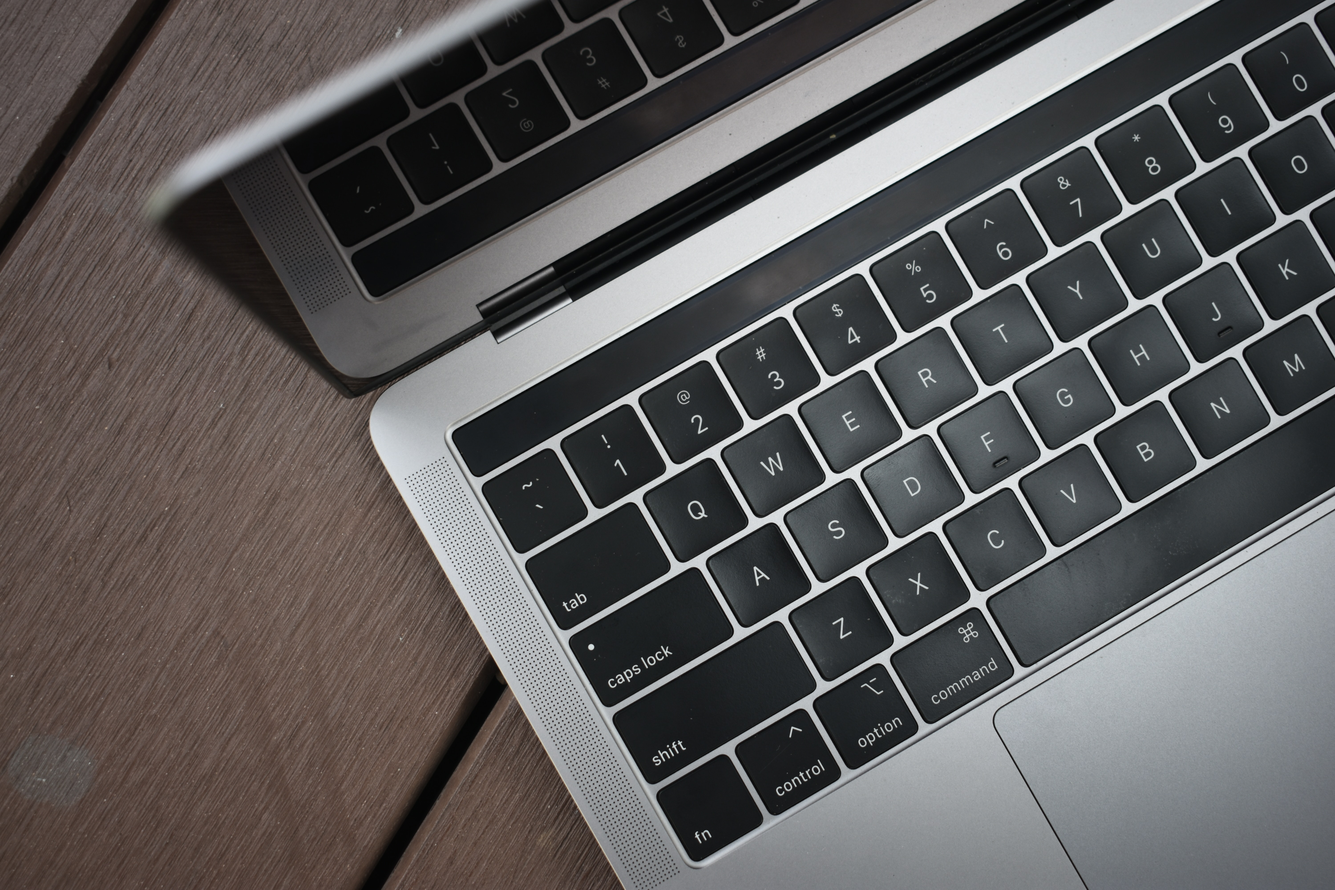
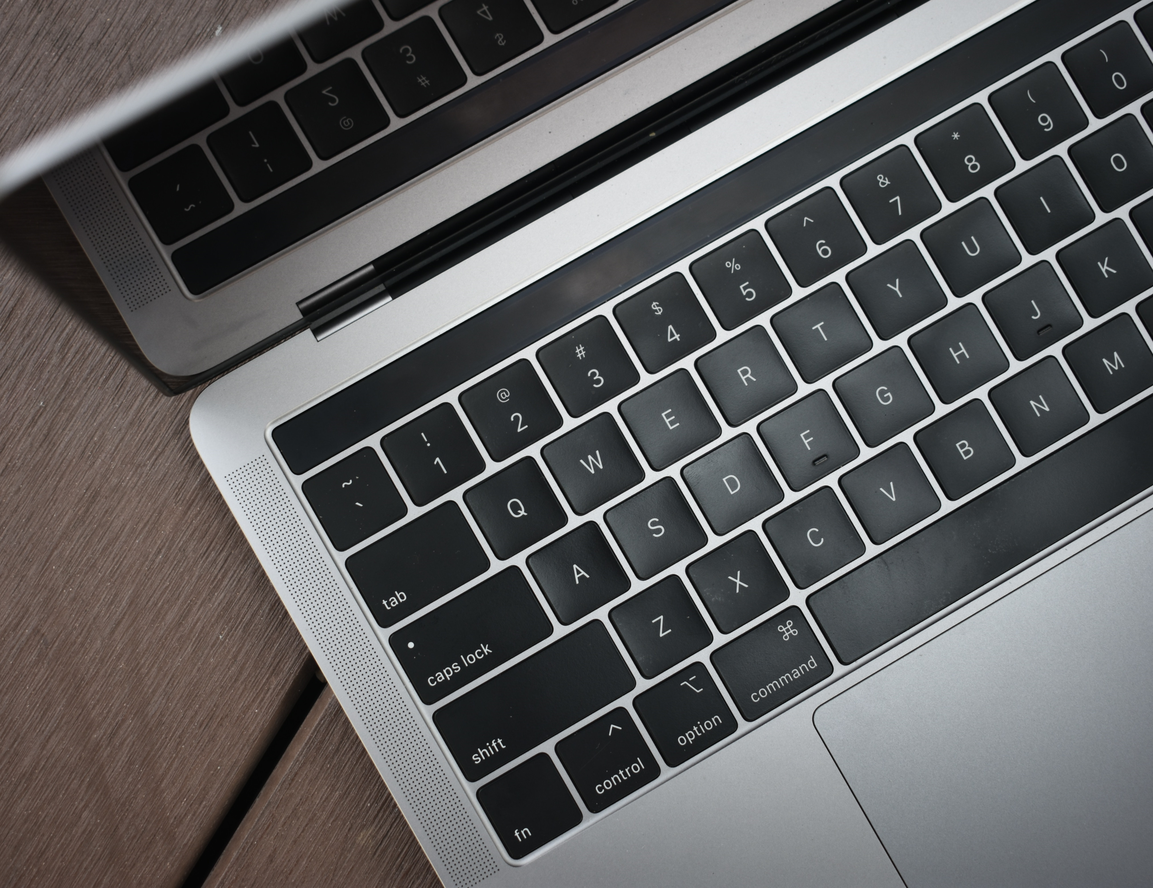
Updates to Home page and subpages

diff --git a/parkour/styles/style.css b/parkour/styles/style.css
@@ -1,0 +1,282 @@
+@import url('https://fonts.googleapis.com/css2?family=Kaushan+Script&family=Lobster&display=swap');
+
+#content
+{
+    max-width: 1600px;
+    display: block;
+    margin: 0 auto;
+    background-color: #247BA0;
+}
+/* HEADER/NAV */
+header
+{
+    display: flex;
+    justify-content: space-around;
+    background-color: #0A2463;
+}
+.logo-box img
+{
+    padding: 20px 20px;
+    width: 150px;
+    margin-right: 0;
+}
+#logo_link
+{
+     padding-top: 5px;
+     justify-self: center;
+     align-self: center;
+}
+nav
+{
+    padding: 30px;
+    margin: 1.5em;
+    z-index: 1;
+}
+nav a
+{
+    font-size: 1.2em;
+    text-align: center;
+    color: white;
+    padding: 2em;
+    margin: 2em;
+    z-index: 1;
+}
+nav a:hover
+{
+    background-color: #247BA0;
+    color: #A50104;
+}
+
+/* BODY */
+body
+{
+    font-family: Lobster, cursive;
+    font-size: 22px;
+    margin: 0;
+    padding: 0;
+}
+h1
+{
+    font-family: "Kaushan Script", Helvetica, cursive;
+    margin: 50px 0;
+}
+h2
+{
+    font-family: "Kaushan Script", Helvetica, cursive;
+    font-size: 22px;
+    margin: 0;
+}
+h4
+{
+    color: black;
+    font-family: "Kaushan Script", Helvetica, cursive;
+    font-size: 1.2em;
+}
+#hero
+{
+    display: grid;
+    grid-template-columns: 1fr 3fr 1fr;
+}
+#hero-box
+{
+    grid-column: 1/4;
+    grid-row: 1/3;
+}
+#hero-img
+{
+    width: 100%;
+}
+.home-title
+{
+    font-size: 3em;
+    margin-top: 150px;
+}
+#hero-msg
+{
+    grid-column: 2/3;
+    grid-row: 1/2;
+    margin-top: -150px;
+}
+#hero-msg h1
+{
+    text-align: center;
+    color: white;
+}
+#hero-msg h4
+{
+    margin-top: -45px;
+    text-align: center;
+    color: white;
+}
+.home-grid
+{
+    display: grid;
+    grid-template-columns: 1fr;
+    grid-template-rows: 1fr 1fr;
+}
+.about-card 
+{
+    display: grid;
+    grid-template-columns: 1fr 1fr;
+    grid-column: 1/2;
+    grid-row: 1/2;
+    width: 100%;
+}
+.about-card p
+{
+    grid-column: 1/2;
+    grid-row: 1/2;
+    padding: 4em;
+}
+.about-card h2
+{
+    grid-column: 1/2;
+    grid-row: 1/2;
+    padding: 1em;
+    font-size: 2em;
+}
+#about-img
+{
+    padding: 1em;
+    width: 95%;
+    grid-column: 2/3;
+    grid-row: 1/2;
+    justify-self: right;
+}
+.contact-card
+{
+    display: grid;
+    grid-template-columns: 1fr 1fr;
+}
+.contact-card p
+{
+    grid-column: 2/3;
+    grid-row: 1/2;
+    padding: 4em;
+}
+.contact-card h2
+{
+    grid-column: 2/3;
+    grid-row: 1/2;
+    padding: 1em;
+    font-size: 2em;
+}
+#contact-img
+{
+    margin-top: 50px;
+    padding: 1em;
+    width: 90%;
+}
+
+/* FOOTER */
+footer
+{
+    color: white;
+    padding: 25px 50px;
+    margin-top: 200px;
+    display: flex;
+    justify-content: space-around;
+    align-items: center;
+    background-color: #0A2463;
+}
+footer p
+{  
+    padding: 25px;
+}
+footer a
+{
+    text-align: center;
+    text-decoration: none;
+    color: white;
+    padding: 25px;
+}
+footer p a:hover
+{
+    text-decoration: underline;
+    background-color: #247BA0;
+    color: #A50104;
+}
+footer .social a
+{
+    padding: 5px;
+}
+
+/* About Page */
+.rooms-card
+{
+    display: grid;
+    grid-template-columns: 1fr 1fr;
+    grid-template-rows: 1fr;
+}
+.rooms-card p:nth-of-type(1)
+{
+    grid-column: 2/3;
+    grid-row: 1/2;
+    z-index: 1;
+    margin-top: 50px;
+}
+.rooms-card h2:nth-of-type(1)
+{
+    font-size: 1.2em;
+    grid-column: 2/3;
+    grid-row: 1/2;
+    z-index: 1;
+}
+.rooms-card p:nth-of-type(2)
+{
+    grid-column: 2/3;
+    grid-row: 1/2;
+    z-index: 1;
+    margin-top: 350px;
+}
+.rooms-card h2:nth-of-type(2)
+{
+    font-size: 1.2em;
+    grid-column: 2/3;
+    grid-row: 1/2;
+    z-index: 1;
+    margin-top: 300px;
+}
+.rooms-card h1
+{
+    grid-column: 2/3;
+}
+.rooms-card img
+{
+    padding: 1em;
+    width: 95%;
+    grid-column: 1/2;
+}
+
+/* Contact Us */
+
+#contact
+{
+    display: grid;
+    grid-template-columns: 1fr 1fr;
+    grid-template-rows: 1fr;
+}
+#contact-box
+{
+    grid-column: 1/4;
+    grid-row: 1/2;
+}
+#contact-img-contact
+{
+    width: 100%;
+    grid-column: 1/3;
+    grid-row: 1;
+}
+#contact-msg
+{
+    grid-column: 1/4;
+    grid-row: 1/2;
+    color: white;
+    justify-self: center;
+    margin-top: 100px;
+}
+.contact-title
+{
+    font-size: 3em;
+    margin-top: 150px;
+}

diff --git a/parkour/index.html b/parkour/index.html
@@ -27,7 +27,7 @@
             </div>
             <section id="hero-msg">
                 <h1 class="home-title">Fun for Everyone!</h1>
-                <h4>Whether you're new or exprienced, there's something here for everyone!</h4>
+                <h4>Whether you're new or exprienced, there's something here for you!</h4>
             </section>
         </div>
         <main class="home-grid">
@@ -37,7 +37,7 @@
                     Here at Escape Parkour we care about your safety, and most importantly, having fun! 
                     Escape Parkour was created by Eli Cutchen, an avid Parkour enthusiast and traceur... <a href="about.html">Read More</a>
                 </p>
-                <img class="card-img" src="images/faceshot2.jpg" alt="picture of owner">
+                <img id="about-img" src="images/faceshot2.jpg" alt="picture of owner">
             </section>
             <section class="contact-card">
                 <h2>Connect with Us</h2>
@@ -45,17 +45,18 @@
                     Have questions? Check out our <a href="about.html">About</a> page for generic questions about Escape Parkour.
                     Your question not listed on that page? Want to know more about Parkour or being a Traceur? 
                     Then reach out to us on any of the social platforms at the bottom of this page, or at our 
-                    email: escparkour@gmail.com
+                    email: escparkour@gmail.com.
+                    <a class="rates" href="about.html">Check Rooms and Rates</a>
                 </p>
-                <img class="card-img" src="images/keyboard.jpg" alt="picture of computer keyboard">
+                <img id="contact-img" src="images/keyboard.jpg" alt="picture of computer keyboard">
+                
             </section>
             <div id="background"></div>
-                <a class="rates" href="about.html">Check Rooms and Rates</a>
         </main>
         <footer>
             <p>Escape Parkour LLC &copy; 2022 - Eli Cutchen</p>
-            <p><a href="site-plan-rafting.html">Site Plan</a></p>
-            <p><a href="contactus.html">Contact Us</a></p>
+            <p><a href="site-plan.html">Site Plan</a></p>
+            <p><a href="contact.html">Contact Us</a></p>
             <div class="social">
                 <a href="https://facebook.com" target="_blank">
                     <img src="images/facebook.png" alt="fb icon">
@@ -63,8 +64,8 @@
                 <a href="https://instagram.com" target="_blank">
                     <img src="images/instagram.png" alt="instagram icon">
                 </a>
-                <a href="#" target="_blank">
-                    <img src="#" alt="email">
+                <a href="mailto:escparkour@gmail.com" target="_blank">
+                    <img src="images/email.png" alt="email">
                 </a>
             </div>
         </footer>

diff --git a/parkour/about.html b/parkour/about.html
@@ -31,7 +31,7 @@
                     how much fun it can be. He strives to include anyone who desires to be a part of the art
                     and to learn more about Parkour.
                 </p>
-                <img class="card-img" src="images/faceshot2.jpg" alt="picture of owner">
+                <img id="about-img" src="images/faceshot2.jpg" alt="picture of owner">
             </section>
             <section class="rooms-card">
                 <h2>Rooms</h2>
@@ -51,14 +51,12 @@
                     puzzles can take anywhere between 1-2 hours.
                 </p>
                 <img class="card-img" src="images/room.jpg" alt="picture of one of the rooms">
-                <h2>$PriceGoesHere</h2>
-                <img class="card-img" src="images/hopv.jpg" alt="picture of one of the rooms">
-                <h2>$PriceGoesHere</h2>
                 <img class="card-img" src="images/room2.jpeg" alt="picture of one of the rooms">
-                <h2>$PriceGoesHere</h2>
+                <h1>Beginner Room - $20 / 30 minutes </h1>
+                <img class="card-img" src="images/hopv.jpg" alt="picture of one of the rooms">
+                <h1>Expert Room - $50 / 1-2 hours</h1>
             </section>
             <div id="background"></div>
-            <a class="rates" href="#">Check Rooms and Rates</a>
         </main>
         <footer>
             <p>Escape Parkour LLC &copy; 2022 - Eli Cutchen</p>
@@ -71,8 +69,8 @@
                 <a href="https://instagram.com" target="_blank">
                     <img src="images/instagram.png" alt="instagram icon">
                 </a>
-                <a href="#" target="_blank">
-                    <img src="#" alt="email">
+                <a href="mailto:escparkour@gmail.com" target="_blank">
+                    <img src="images/email.png" alt="email">
                 </a>
             </div>
         </footer>

diff --git a/parkour/contact.html b/parkour/contact.html
@@ -23,10 +23,10 @@
         </header>
         <div id="contact">
             <div id="contact-box">
-                <img class="contact-img" src="images/keyboard.jpg" alt="picture of computer keyboard">
+                <img id="contact-img-contact" src="images/keyboard2.jpg" alt="picture of computer keyboard">
             </div>
             <section id="contact-msg">
-                <h1 class="home-title">Frequently Asked Questions</h1>
+                <h1 class="contact-title">Frequently Asked Questions</h1>
             </section>
         </div>
         <main class="contact-grid">
@@ -66,8 +66,8 @@
                 <a href="https://instagram.com" target="_blank">
                     <img src="images/instagram.png" alt="instagram icon">
                 </a>
-                <a href="#" target="_blank">
-                    <img src="#" alt="email">
+                <a href="mailto:escparkour@gmail.com" target="_blank">
+                    <img src="images/email.png" alt="email">
                 </a>
             </div>
         </footer>
